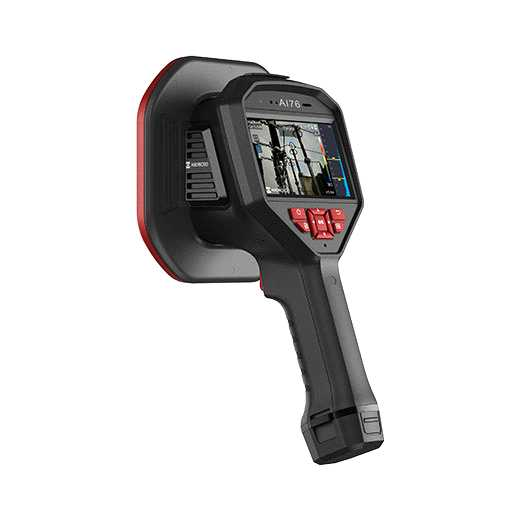
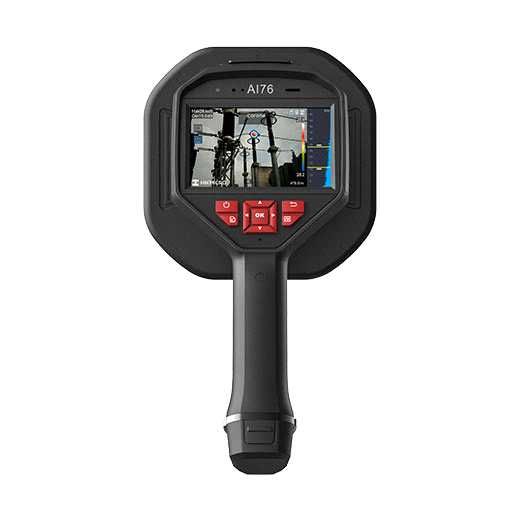
썸네일 클릭 시 메인이미지 전환 기능 추가(SP시리즈/G31/AI76), AI76 메인이미지 오류 수정

Changed region(s): [[0.2462, 0.0615, 0.7385, 0.9231]]

diff --git a/product-detail-sp120h.html b/product-detail-sp120h.html
@@ -32,10 +32,11 @@
 
   <div class="detail-wrap">
     <div class="detail-gallery">
-      <div class="main-img" style="background-image:url('images/products/sp120h_main.jpg');"></div>
+      <div class="main-img" id="mainImg" style="background-image:url('images/products/sp120h_main.jpg');"></div>
       <div class="gallery-thumbs">
-        <div class="thumb-img" style="background-image:url('images/products/sp120h_main2.jpg');"></div>
-        <div class="thumb-img" style="background-image:url('images/products/sp120h_main3.jpg');"></div>
+        <div class="thumb-img active" data-src="images/products/sp120h_main.jpg" style="background-image:url('images/products/sp120h_main.jpg');"></div>
+        <div class="thumb-img" data-src="images/products/sp120h_main2.jpg" style="background-image:url('images/products/sp120h_main2.jpg');"></div>
+        <div class="thumb-img" data-src="images/products/sp120h_main3.jpg" style="background-image:url('images/products/sp120h_main3.jpg');"></div>
       </div>
     </div>
 
@@ -234,6 +235,13 @@
 <a href="quote-request.html" class="floating-quote">빠른 견적문의</a>
 
 <script>
+  document.querySelectorAll('.gallery-thumbs .thumb-img').forEach(thumb => {
+    thumb.onclick = () => {
+      document.getElementById('mainImg').style.backgroundImage = `url('${thumb.dataset.src}')`;
+      document.querySelectorAll('.gallery-thumbs .thumb-img').forEach(t => t.classList.remove('active'));
+      thumb.classList.add('active');
+    };
+  });
   document.querySelectorAll('.action-row .btn-outline').forEach(btn => {
     btn.onclick = () => alert('장바구니에 담았습니다');
   });

diff --git a/product-detail-sp100h.html b/product-detail-sp100h.html
@@ -32,10 +32,11 @@
 
   <div class="detail-wrap">
     <div class="detail-gallery">
-      <div class="main-img" style="background-image:url('images/products/sp100h_main.jpg');"></div>
+      <div class="main-img" id="mainImg" style="background-image:url('images/products/sp100h_main.jpg');"></div>
       <div class="gallery-thumbs">
-        <div class="thumb-img" style="background-image:url('images/products/sp100h_main2.jpg');"></div>
-        <div class="thumb-img" style="background-image:url('images/products/sp100h_main3.jpg');"></div>
+        <div class="thumb-img active" data-src="images/products/sp100h_main.jpg" style="background-image:url('images/products/sp100h_main.jpg');"></div>
+        <div class="thumb-img" data-src="images/products/sp100h_main2.jpg" style="background-image:url('images/products/sp100h_main2.jpg');"></div>
+        <div class="thumb-img" data-src="images/products/sp100h_main3.jpg" style="background-image:url('images/products/sp100h_main3.jpg');"></div>
       </div>
     </div>
 
@@ -227,6 +228,13 @@
 <a href="quote-request.html" class="floating-quote">빠른 견적문의</a>
 
 <script>
+  document.querySelectorAll('.gallery-thumbs .thumb-img').forEach(thumb => {
+    thumb.onclick = () => {
+      document.getElementById('mainImg').style.backgroundImage = `url('${thumb.dataset.src}')`;
+      document.querySelectorAll('.gallery-thumbs .thumb-img').forEach(t => t.classList.remove('active'));
+      thumb.classList.add('active');
+    };
+  });
   function showTab(name) {
     ['info','spec','review','qna'].forEach(t => {
       const el = document.getElementById('panel-' + t);

diff --git a/product-detail-g31.html b/product-detail-g31.html
@@ -32,10 +32,11 @@
 
   <div class="detail-wrap">
     <div class="detail-gallery">
-      <div class="main-img" style="background-image:url('images/products/g31_main.jpg');"></div>
+      <div class="main-img" id="mainImg" style="background-image:url('images/products/g31_main.jpg');"></div>
       <div class="gallery-thumbs">
-        <div class="thumb-img" style="background-image:url('images/products/g31_main2.jpg');"></div>
-        <div class="thumb-img" style="background-image:url('images/products/g31_main3.jpg');"></div>
+        <div class="thumb-img active" data-src="images/products/g31_main.jpg" style="background-image:url('images/products/g31_main.jpg');"></div>
+        <div class="thumb-img" data-src="images/products/g31_main2.jpg" style="background-image:url('images/products/g31_main2.jpg');"></div>
+        <div class="thumb-img" data-src="images/products/g31_main3.jpg" style="background-image:url('images/products/g31_main3.jpg');"></div>
       </div>
     </div>
 
@@ -220,6 +221,13 @@
 <a href="quote-request.html" class="floating-quote">빠른 견적문의</a>
 
 <script>
+  document.querySelectorAll('.gallery-thumbs .thumb-img').forEach(thumb => {
+    thumb.onclick = () => {
+      document.getElementById('mainImg').style.backgroundImage = `url('${thumb.dataset.src}')`;
+      document.querySelectorAll('.gallery-thumbs .thumb-img').forEach(t => t.classList.remove('active'));
+      thumb.classList.add('active');
+    };
+  });
   document.querySelectorAll('.qty-selector button').forEach(btn => {
     btn.onclick = () => {
       const input = btn.parentElement.querySelector('input');

diff --git a/product-detail-sp40h.html b/product-detail-sp40h.html
@@ -32,10 +32,11 @@
 
   <div class="detail-wrap">
     <div class="detail-gallery">
-      <div class="main-img" style="background-image:url('images/products/sp40h_main.jpg');"></div>
+      <div class="main-img" id="mainImg" style="background-image:url('images/products/sp40h_main.jpg');"></div>
       <div class="gallery-thumbs">
-        <div class="thumb-img" style="background-image:url('images/products/sp40h_main2.jpg');"></div>
-        <div class="thumb-img" style="background-image:url('images/products/sp40h_main3.jpg');"></div>
+        <div class="thumb-img active" data-src="images/products/sp40h_main.jpg" style="background-image:url('images/products/sp40h_main.jpg');"></div>
+        <div class="thumb-img" data-src="images/products/sp40h_main2.jpg" style="background-image:url('images/products/sp40h_main2.jpg');"></div>
+        <div class="thumb-img" data-src="images/products/sp40h_main3.jpg" style="background-image:url('images/products/sp40h_main3.jpg');"></div>
       </div>
     </div>
 
@@ -227,6 +228,13 @@
 <a href="quote-request.html" class="floating-quote">빠른 견적문의</a>
 
 <script>
+  document.querySelectorAll('.gallery-thumbs .thumb-img').forEach(thumb => {
+    thumb.onclick = () => {
+      document.getElementById('mainImg').style.backgroundImage = `url('${thumb.dataset.src}')`;
+      document.querySelectorAll('.gallery-thumbs .thumb-img').forEach(t => t.classList.remove('active'));
+      thumb.classList.add('active');
+    };
+  });
   function showTab(name) {
     ['info','spec','review','qna'].forEach(t => {
       const el = document.getElementById('panel-' + t);

diff --git a/product-detail-sp60h.html b/product-detail-sp60h.html
@@ -32,10 +32,11 @@
 
   <div class="detail-wrap">
     <div class="detail-gallery">
-      <div class="main-img" style="background-image:url('images/products/sp60h_main.jpg');"></div>
+      <div class="main-img" id="mainImg" style="background-image:url('images/products/sp60h_main.jpg');"></div>
       <div class="gallery-thumbs">
-        <div class="thumb-img" style="background-image:url('images/products/sp60h_main2.jpg');"></div>
-        <div class="thumb-img" style="background-image:url('images/products/sp60h_main3.jpg');"></div>
+        <div class="thumb-img active" data-src="images/products/sp60h_main.jpg" style="background-image:url('images/products/sp60h_main.jpg');"></div>
+        <div class="thumb-img" data-src="images/products/sp60h_main2.jpg" style="background-image:url('images/products/sp60h_main2.jpg');"></div>
+        <div class="thumb-img" data-src="images/products/sp60h_main3.jpg" style="background-image:url('images/products/sp60h_main3.jpg');"></div>
       </div>
     </div>
 
@@ -227,6 +228,13 @@
 <a href="quote-request.html" class="floating-quote">빠른 견적문의</a>
 
 <script>
+  document.querySelectorAll('.gallery-thumbs .thumb-img').forEach(thumb => {
+    thumb.onclick = () => {
+      document.getElementById('mainImg').style.backgroundImage = `url('${thumb.dataset.src}')`;
+      document.querySelectorAll('.gallery-thumbs .thumb-img').forEach(t => t.classList.remove('active'));
+      thumb.classList.add('active');
+    };
+  });
   function showTab(name) {
     ['info','spec','review','qna'].forEach(t => {
       const el = document.getElementById('panel-' + t);

diff --git a/product-detail-sp40.html b/product-detail-sp40.html
@@ -32,10 +32,11 @@
 
   <div class="detail-wrap">
     <div class="detail-gallery">
-      <div class="main-img" style="background-image:url('images/products/sp40_main.jpg');"></div>
+      <div class="main-img" id="mainImg" style="background-image:url('images/products/sp40_main.jpg');"></div>
       <div class="gallery-thumbs">
-        <div class="thumb-img" style="background-image:url('images/products/sp40_main2.jpg');"></div>
-        <div class="thumb-img" style="background-image:url('images/products/sp40_main3.jpg');"></div>
+        <div class="thumb-img active" data-src="images/products/sp40_main.jpg" style="background-image:url('images/products/sp40_main.jpg');"></div>
+        <div class="thumb-img" data-src="images/products/sp40_main2.jpg" style="background-image:url('images/products/sp40_main2.jpg');"></div>
+        <div class="thumb-img" data-src="images/products/sp40_main3.jpg" style="background-image:url('images/products/sp40_main3.jpg');"></div>
       </div>
     </div>
 
@@ -227,6 +228,13 @@
 <a href="quote-request.html" class="floating-quote">빠른 견적문의</a>
 
 <script>
+  document.querySelectorAll('.gallery-thumbs .thumb-img').forEach(thumb => {
+    thumb.onclick = () => {
+      document.getElementById('mainImg').style.backgroundImage = `url('${thumb.dataset.src}')`;
+      document.querySelectorAll('.gallery-thumbs .thumb-img').forEach(t => t.classList.remove('active'));
+      thumb.classList.add('active');
+    };
+  });
   function showTab(name) {
     ['info','spec','review','qna'].forEach(t => {
       const el = document.getElementById('panel-' + t);

diff --git a/product-detail-sp60.html b/product-detail-sp60.html
@@ -32,10 +32,11 @@
 
   <div class="detail-wrap">
     <div class="detail-gallery">
-      <div class="main-img" style="background-image:url('images/products/sp60_main.jpg');"></div>
+      <div class="main-img" id="mainImg" style="background-image:url('images/products/sp60_main.jpg');"></div>
       <div class="gallery-thumbs">
-        <div class="thumb-img" style="background-image:url('images/products/sp60_main2.jpg');"></div>
-        <div class="thumb-img" style="background-image:url('images/products/sp60_main3.jpg');"></div>
+        <div class="thumb-img active" data-src="images/products/sp60_main.jpg" style="background-image:url('images/products/sp60_main.jpg');"></div>
+        <div class="thumb-img" data-src="images/products/sp60_main2.jpg" style="background-image:url('images/products/sp60_main2.jpg');"></div>
+        <div class="thumb-img" data-src="images/products/sp60_main3.jpg" style="background-image:url('images/products/sp60_main3.jpg');"></div>
       </div>
     </div>
 
@@ -227,6 +228,13 @@
 <a href="quote-request.html" class="floating-quote">빠른 견적문의</a>
 
 <script>
+  document.querySelectorAll('.gallery-thumbs .thumb-img').forEach(thumb => {
+    thumb.onclick = () => {
+      document.getElementById('mainImg').style.backgroundImage = `url('${thumb.dataset.src}')`;
+      document.querySelectorAll('.gallery-thumbs .thumb-img').forEach(t => t.classList.remove('active'));
+      thumb.classList.add('active');
+    };
+  });
   function showTab(name) {
     ['info','spec','review','qna'].forEach(t => {
       const el = document.getElementById('panel-' + t);

diff --git a/product-detail-ai76.html b/product-detail-ai76.html
@@ -32,10 +32,11 @@
 
   <div class="detail-wrap">
     <div class="detail-gallery">
-      <div class="main-img" style="background-image:url('images/products/ai76_main.jpg');"></div>
+      <div class="main-img" id="mainImg" style="background-image:url('images/products/ai76_main.jpg');"></div>
       <div class="gallery-thumbs">
-        <div class="thumb-img" style="background-image:url('images/products/ai76_main2.jpg');"></div>
-        <div class="thumb-img" style="background-image:url('images/products/ai76_main3.jpg');"></div>
+        <div class="thumb-img active" data-src="images/products/ai76_main.jpg" style="background-image:url('images/products/ai76_main.jpg');"></div>
+        <div class="thumb-img" data-src="images/products/ai76_main2.jpg" style="background-image:url('images/products/ai76_main2.jpg');"></div>
+        <div class="thumb-img" data-src="images/products/ai76_main3.jpg" style="background-image:url('images/products/ai76_main3.jpg');"></div>
       </div>
     </div>
 
@@ -204,6 +205,13 @@
 <a href="quote-request.html" class="floating-quote">빠른 견적문의</a>
 
 <script>
+  document.querySelectorAll('.gallery-thumbs .thumb-img').forEach(thumb => {
+    thumb.onclick = () => {
+      document.getElementById('mainImg').style.backgroundImage = `url('${thumb.dataset.src}')`;
+      document.querySelectorAll('.gallery-thumbs .thumb-img').forEach(t => t.classList.remove('active'));
+      thumb.classList.add('active');
+    };
+  });
   
   document.querySelectorAll('.qty-selector button').forEach(btn => {
     btn.onclick = () => {
